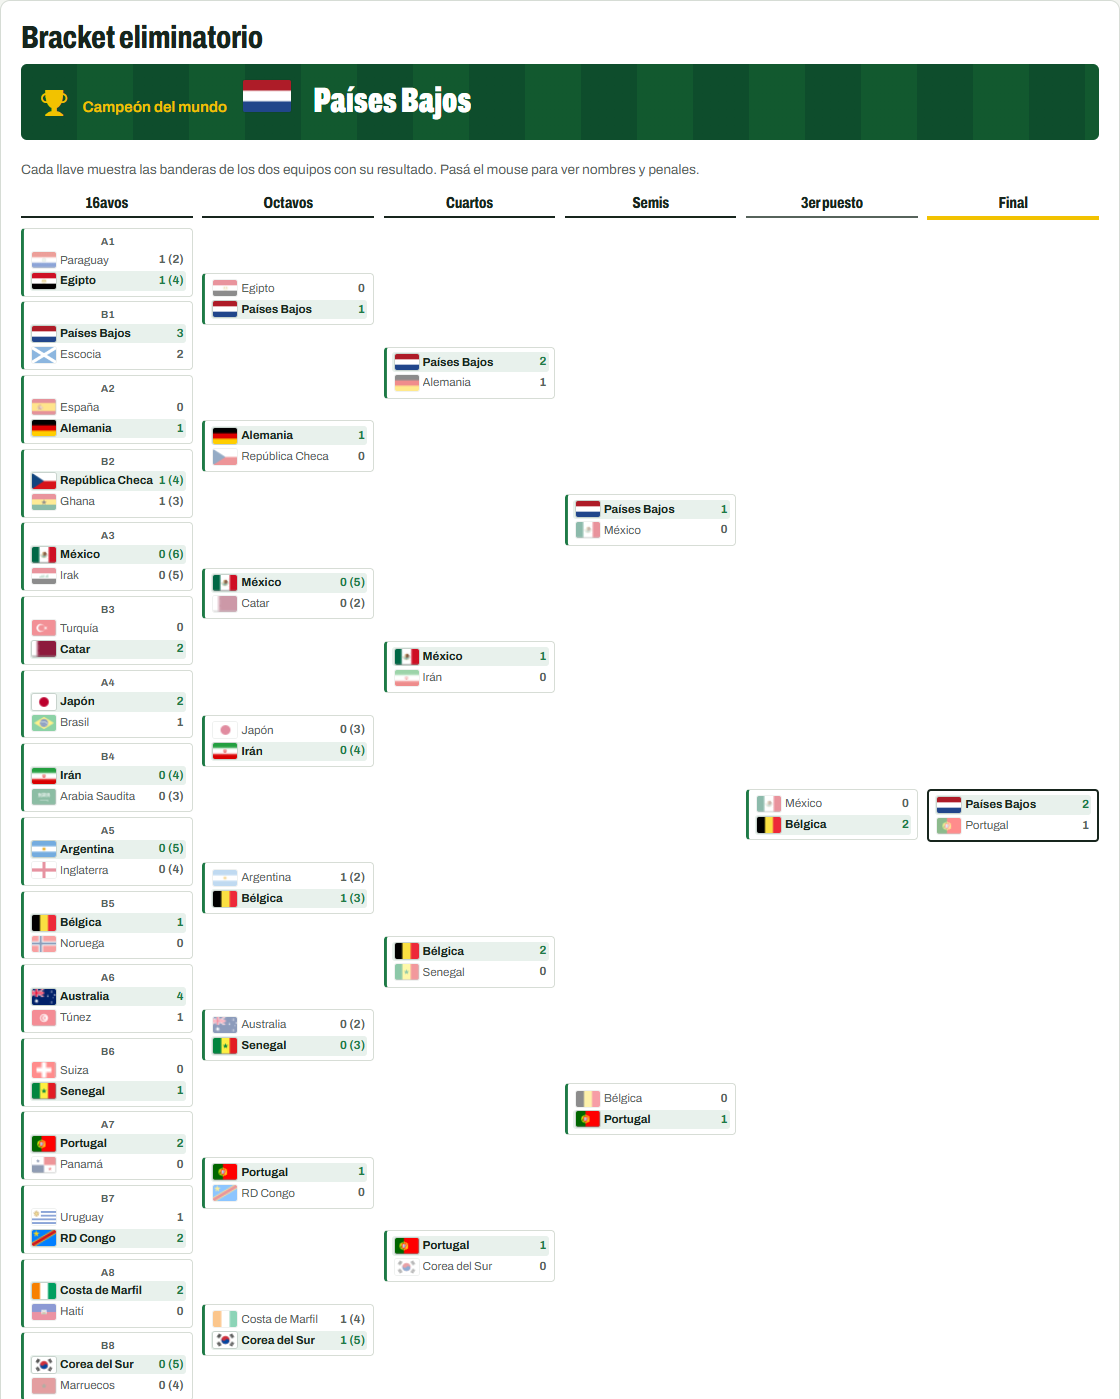
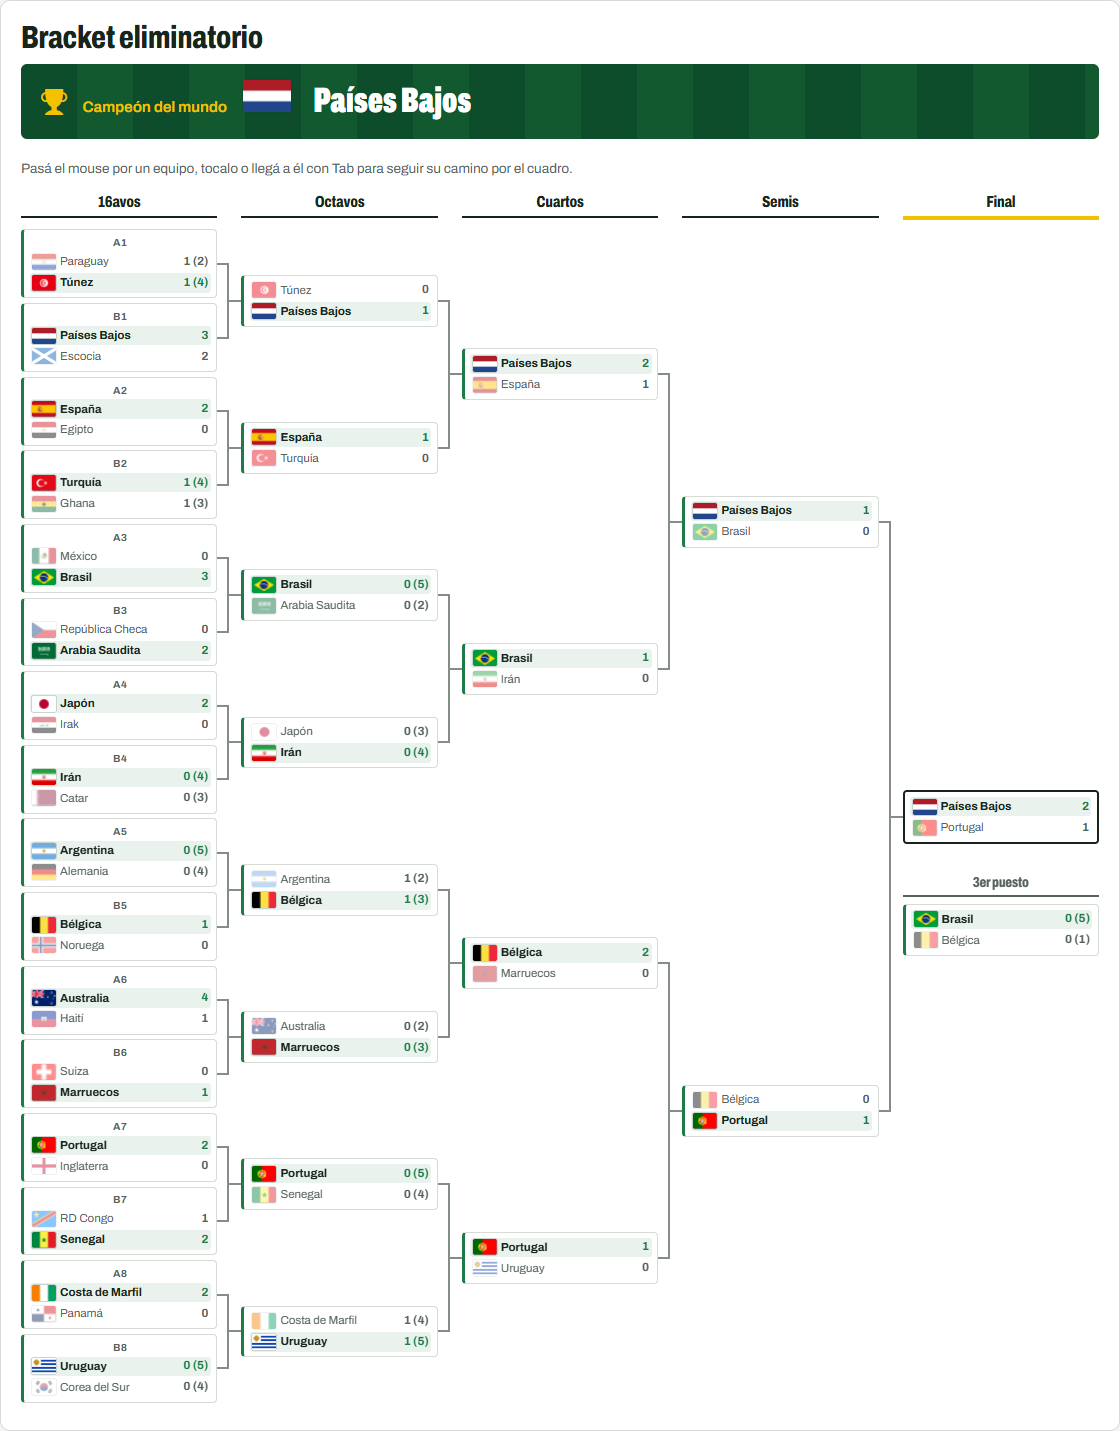
docs: retake the README screenshots and add the statistics page in the night theme

diff --git a/TODO.md b/TODO.md
@@ -48,7 +48,6 @@ Each item says where it is and what the fix looks like. Remove an item in the sa
 - Untested in the browser: the 0-0 confirmation checkbox, the "Regenerar fixture" confirmation, the simulator's "no fixture yet" notice, the role-based hints, the knockout dates with non-default settings, the knockout rows of the team profile, a session ending in an open or a duplicated tab (covered with a manual clock in `SessionStateTests`), the "No se pudo confirmar que tengas permiso…" message, the `.ics` file in a calendar client, `prefers-reduced-motion`, and motion and print outside Chromium. Run them on a fresh database.
 - The fixture export keeps a stale "Hasta" date: `Fixture.razor` `ReloadState` sets `exportToDate ??=` once, so a page opened before the fixture existed exports only the start date until it is reloaded. Fix: recompute the default range when the fixture is generated or deleted.
 - Keyboard and contrast gaps: the reconnect notice does not make the page behind it inert (`App.razor`, `reconnect.js`); the yellow bar of the current stage on the home page has 1.5:1 against the day background (`Home.razor.css`, `.stage.current::before`; the bold label carries the state); the forecast figures on `/matches` are only in the `title` and the hidden text (`MatchForecast.razor`), so touch users see the bar without numbers.
-- `docs/screenshots/bracket.png` predates the bracket tree and the knockout calendar: retake it on a re-seeded database.
 
 ## Operations
 

diff --git a/README.md b/README.md
@@ -47,6 +47,8 @@ University project for *Diseño de Aplicaciones 1*, Universidad ORT Uruguay (202
 
 ![Knockout bracket from the round of 32 to the final](docs/screenshots/bracket.png)
 
+![Tournament statistics in the night theme](docs/screenshots/stats-night.png)
+
 ## Tournament rules
 
 - **Quotas:** UEFA 16, CAF 9, AFC 8, CONMEBOL 7, CONCACAF 7, OFC 1. A group holds at most two
